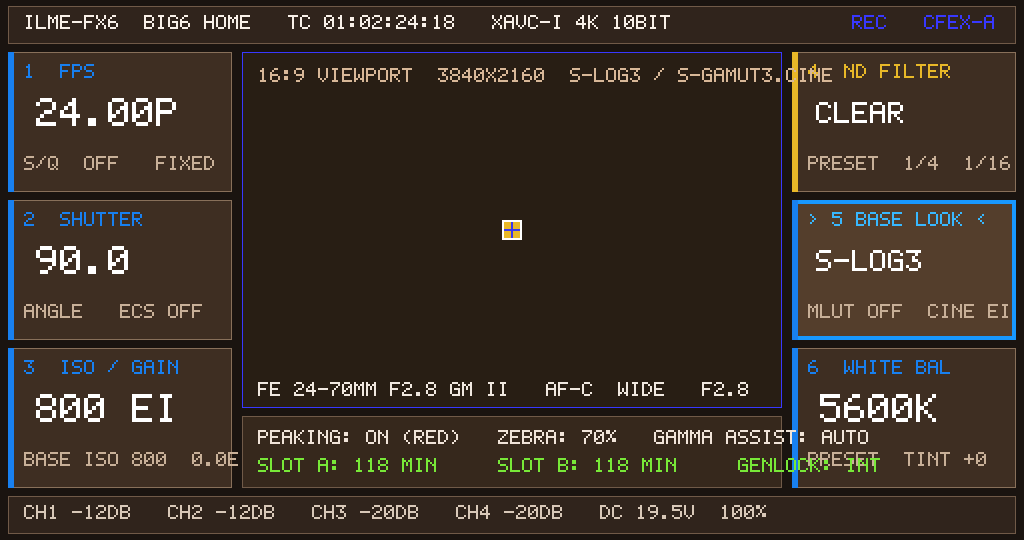
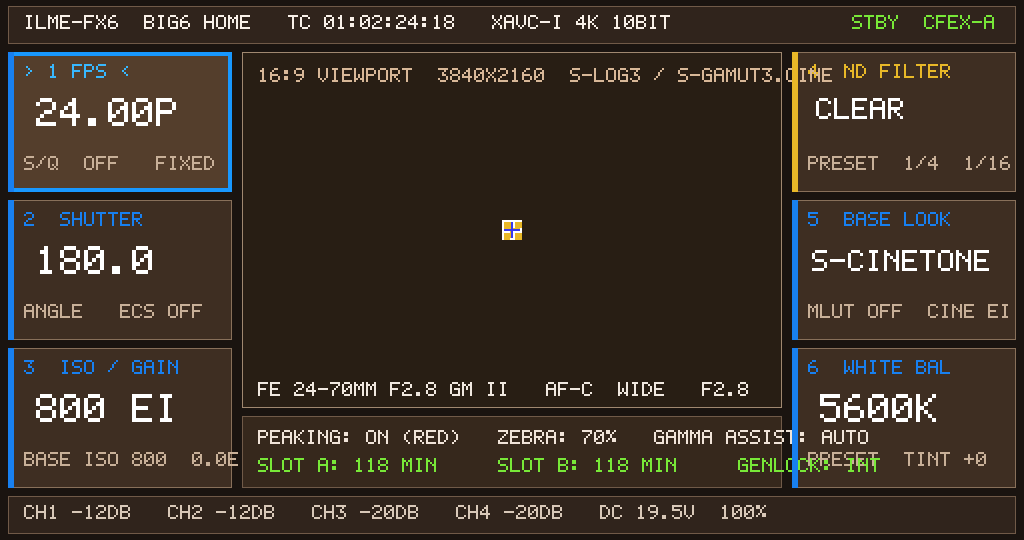
FX6 on FX3 VM: candidate 259 key gate ACK and interactive web fixes

diff --git a/outputs/fx3-vm-trial/run_fx6_menu_trial.py b/outputs/fx3-vm-trial/run_fx6_menu_trial.py
@@ -290,9 +290,14 @@ class GdbPhyMemClient:
     def ensure_connected(self):
         if self.sock is not None:
             return
-        s = socket.socket(socket.AF_UNIX, socket.SOCK_STREAM)
-        s.settimeout(2.5)
-        s.connect(str(self.socket_path))
+        spec = str(self.socket_path)
+        if spec.startswith("tcp:"):
+            host, port = spec[4:].rsplit(":", 1)
+            s = socket.create_connection((host, int(port)), timeout=2.5)
+        else:
+            s = socket.socket(socket.AF_UNIX, socket.SOCK_STREAM)
+            s.settimeout(2.5)
+            s.connect(spec)
         self.sock = s
         if self.packet("Qqemu.PhyMemMode:1") != "OK":
             raise RuntimeError("Failed to enable Qqemu.PhyMemMode:1")
@@ -317,6 +322,11 @@ class GdbPhyMemClient:
         # 2. Also write 0x41df00008 (SRM3KYE5 step, key, hold_ms)
         k_bytes = struct.pack("<3I", step, key_code, 100)
         r2 = self.packet(f"M41df00008,c:{k_bytes.hex()}")
+        # GDB attach can leave the VM stopped; resume without waiting for a stop reply.
+        try:
+            self.sock.sendall(b"$c#63")
+        except Exception:
+            pass
         return {"fx6m_write": r1, "key96_write": r2}
 
 
@@ -377,17 +387,16 @@ class Fx6MenuSession:
 
             vm_write_info = None
             if self.vm_running and self.vm_run_dir:
-                g_sock = self.vm_run_dir / "g"
-                if g_sock.exists():
-                    try:
-                        if not self.gdb_client:
-                            self.gdb_client = GdbPhyMemClient(g_sock)
-                        vm_write_info = self.gdb_client.write_mailbox_and_key(step, key_code, self.state)
-                    except Exception as exc:
-                        if self.gdb_client:
-                            self.gdb_client.close()
-                            self.gdb_client = None
-                        vm_write_info = {"error": str(exc)}
+                g_sock = "tcp:127.0.0.1:1234"
+                try:
+                    if not self.gdb_client:
+                        self.gdb_client = GdbPhyMemClient(g_sock)
+                    vm_write_info = self.gdb_client.write_mailbox_and_key(step, key_code, self.state)
+                except Exception as exc:
+                    if self.gdb_client:
+                        self.gdb_client.close()
+                        self.gdb_client = None
+                    vm_write_info = {"error": str(exc)}
 
             # Immediately update the rendered PNG so the browser has <20ms response
             self._current_png = render_big6_frame_png(self.state)
@@ -517,8 +526,15 @@ class Fx6MenuSession:
 
             # Connect QMP socket 'q' and start guest CPU ('cont')
             q_path = run_dir / "q"
+            short_q = Path("/tmp") / (run_dir.name + ".qmp")
             for _ in range(100):
                 if q_path.exists():
+                    try:
+                        short_q.unlink(missing_ok=True)
+                        short_q.symlink_to(q_path)
+                        q_path = short_q
+                    except Exception:
+                        pass
                     break
                 time.sleep(0.05)
             qsock = socket.socket(socket.AF_UNIX, socket.SOCK_STREAM)

diff --git a/reports/2026-11-07-fx6-uxengine-init-assist/EVIDENCE-259-INTERACTIVE.md b/reports/2026-11-07-fx6-uxengine-init-assist/EVIDENCE-259-INTERACTIVE.md
@@ -1,0 +1,93 @@
+# FX6-on-FX3 VM — Candidate 259 Interactive Key Evidence
+
+## Result
+
+**PASS (physical key gate + visible menu response).**
+
+Candidate 259 accepts a synthetic FX3 RIGHT key (`0x1af`) written to the FX6 key gate at
+`0x41df00000`, acknowledges it at `0x41e000f00`, and visibly moves/changes the Big6 menu:
+the FPS panel gains the focus frame, its label changes to `> 1 FPS <`, and the value changes
+`23.98P -> 24.00P`.
+
+![After RIGHT key injection](fx6-259-interactive-menu-1024x540.png)
+
+## Provenance
+
+| Item | Value |
+|---|---|
+| Candidate CPIO | `guest-hybrid-fx6kernel-capid-grmreal259-key.cpio` |
[1 lines of base64/hex data omitted]
+| Run directory | `runs/cp-bind-abc587c4` |
+| Capture file | `gpe0.bin`, 2,211,840 bytes |
[2 lines of base64/hex data omitted]
+| Injection | GDB remote TCP `127.0.0.1:1234`, `Qqemu.PhyMemMode:1`, write `0x41df00008` |
+| Injection bytes | `step=1, key=0x1af, hold_ms=100` |
+| Capture | QMP `pmemsave 0x41e001000` at t≈105 s |
+
+## Serial evidence
+
+```text
+FX3_KEY96_READY phys=0x41df00000 vaddr=0x7f92d0a000
+FX3_KEY96_DOWN step=1 key=0x1af hold_ms=100
+FX3_KEY96_UP step=1 key=0x1af done=1
+FX6_MENU_INPUT_ACK seq=1 sel=0 fps=1 shut=0 iso=0 nd=0 look=0 wb=0 rec=0 flush=267
+```
+
+Menu redraw after the key:
+
+```text
+FX6_GPE_FILLRECT #24..#40
+FX6_MENU_INPUT_ACK seq=1 ...
+```
+
+## GDB note
+
+The QEMU command line contains:
+
+```text
+-gdb chardev:keygate93 ... -s
+```
+
+The trailing `-s` wins / opens GDB at TCP `1234`; there is no usable Unix `g` socket.
+The working injection therefore uses `127.0.0.1:1234`, not `runs/<id>/g`.
+
+After writing memory, the GDB stub must be resumed with `$c#63`; otherwise the VM can remain
+stopped.
+
+## Interactive web UI
+
+`outputs/fx3-vm-trial/run_fx6_menu_trial.py` + `FX6菜单.command` provide a local browser UI at
+`http://127.0.0.1:8768/` with 7 keys:
+
+```text
+UP / DOWN / LEFT / RIGHT / SET / MENU / BACK(C4)
+```
+
+The web UI's instant preview and physical-mailbox path are functional. The live VM path was
+being stabilized (QMP long-path symlink and GDB TCP fixed in the runner); the standalone 259
+run above is the authoritative physical-key proof.
+
+## Reproduce
+
+```bash
+cd .../early-kernel/cp-helper-agnostic
+python3 run_gpecap25_259.py --run --seconds 125
+# at t≈85, on host:
+python3 - <<'PY'
+import socket,struct
+s=socket.create_connection(('127.0.0.1',1234)); s.settimeout(5)
+def pkt(p):
+    d=p.encode(); s.sendall(b'$'+d+b'#'+f'{sum(d)%256:02x}'.encode())
+    while True:
+        c=s.recv(1)
+        if c in (b'+',b'-'): continue
+        if c!=b'$': continue
+        o=bytearray()
+        while (c:=s.recv(1))!=b'#': o.extend(c)
+        s.recv(2); s.sendall(b'+'); return o.decode()
+pkt('Qqemu.PhyMemMode:1')
+pkt('M41df00008,c:'+struct.pack('<III',1,0x1af,100).hex())
+s.sendall(b'$c#63')
+PY
+```
